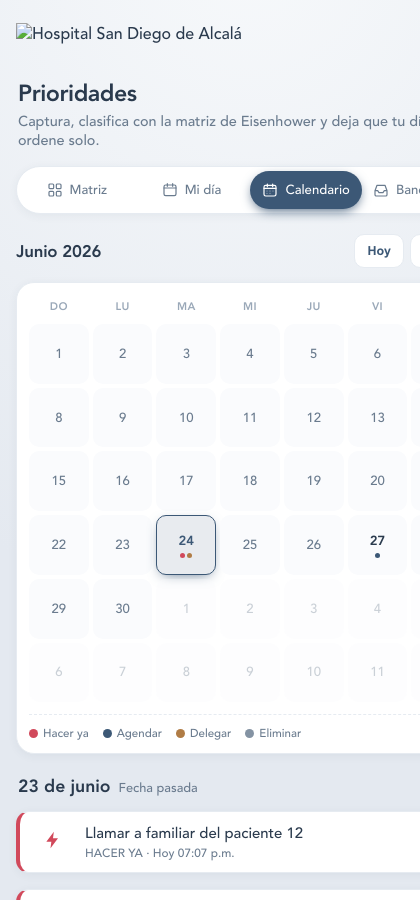
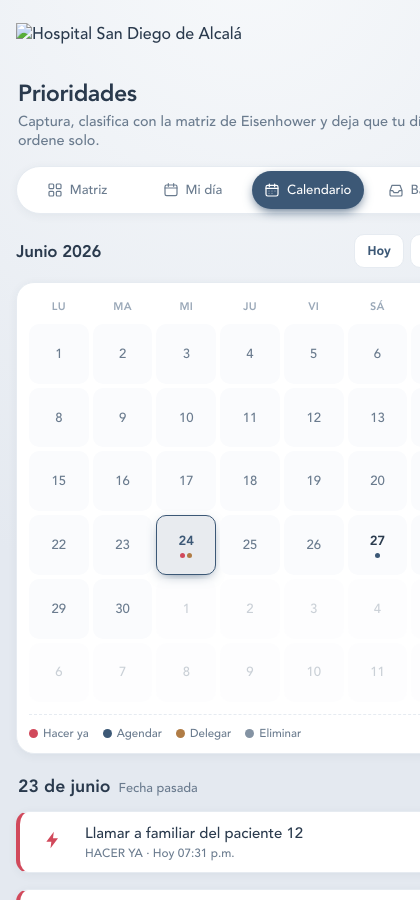
Corrige desalineación de un día en el calendario
El encabezado de la semana empezaba en Domingo pero la rejilla
empieza en Lunes, así cada fecha aparecía bajo el día anterior.
Ahora el encabezado también empieza en Lunes (Lu..Do).

diff --git a/index.html b/index.html
@@ -380,7 +380,7 @@ const YMD = (d) => `${d.getFullYear()}-${String(d.getMonth()+1).padStart(2,"0")}
 const parseDate = (s) => { const d = new Date(s); return isNaN(d) ? null : d; };
 const sameDay = (a, b) => a.getFullYear()===b.getFullYear() && a.getMonth()===b.getMonth() && a.getDate()===b.getDate();
 const MONTHS_ES = ["Enero","Febrero","Marzo","Abril","Mayo","Junio","Julio","Agosto","Septiembre","Octubre","Noviembre","Diciembre"];
-const WD_ES = ["Do","Lu","Ma","Mi","Ju","Vi","Sá"];
+const WD_ES = ["Lu","Ma","Mi","Ju","Vi","Sá","Do"];
 /* ordena por importancia (cuadrante) y luego por hora */
 const byImportance = (a, b) => {
   const ra = QUAD_RANK[a.quadrant ?? "null"], rb = QUAD_RANK[b.quadrant ?? "null"];